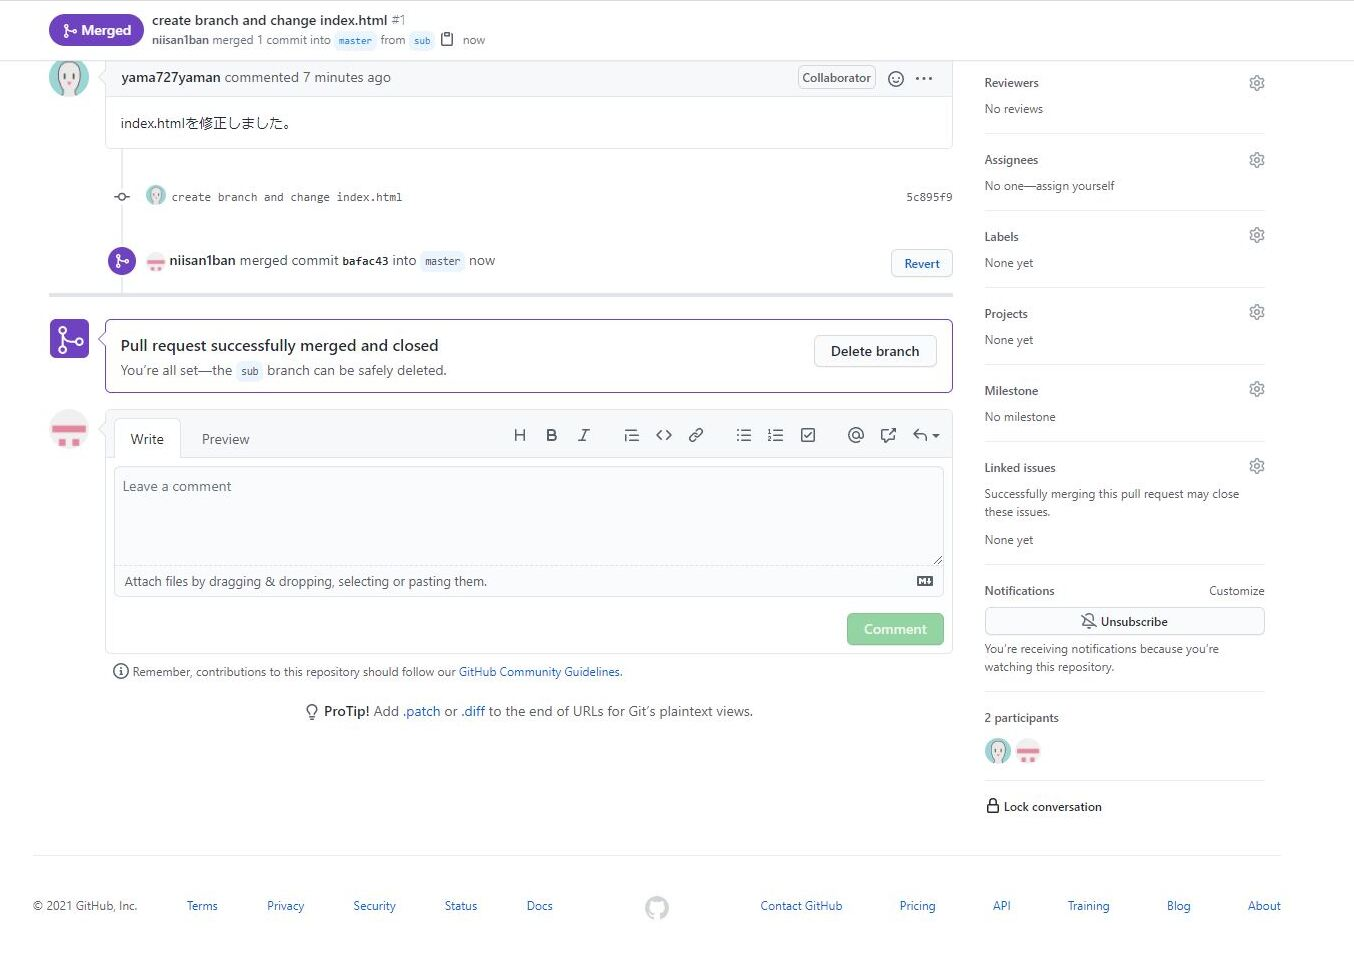
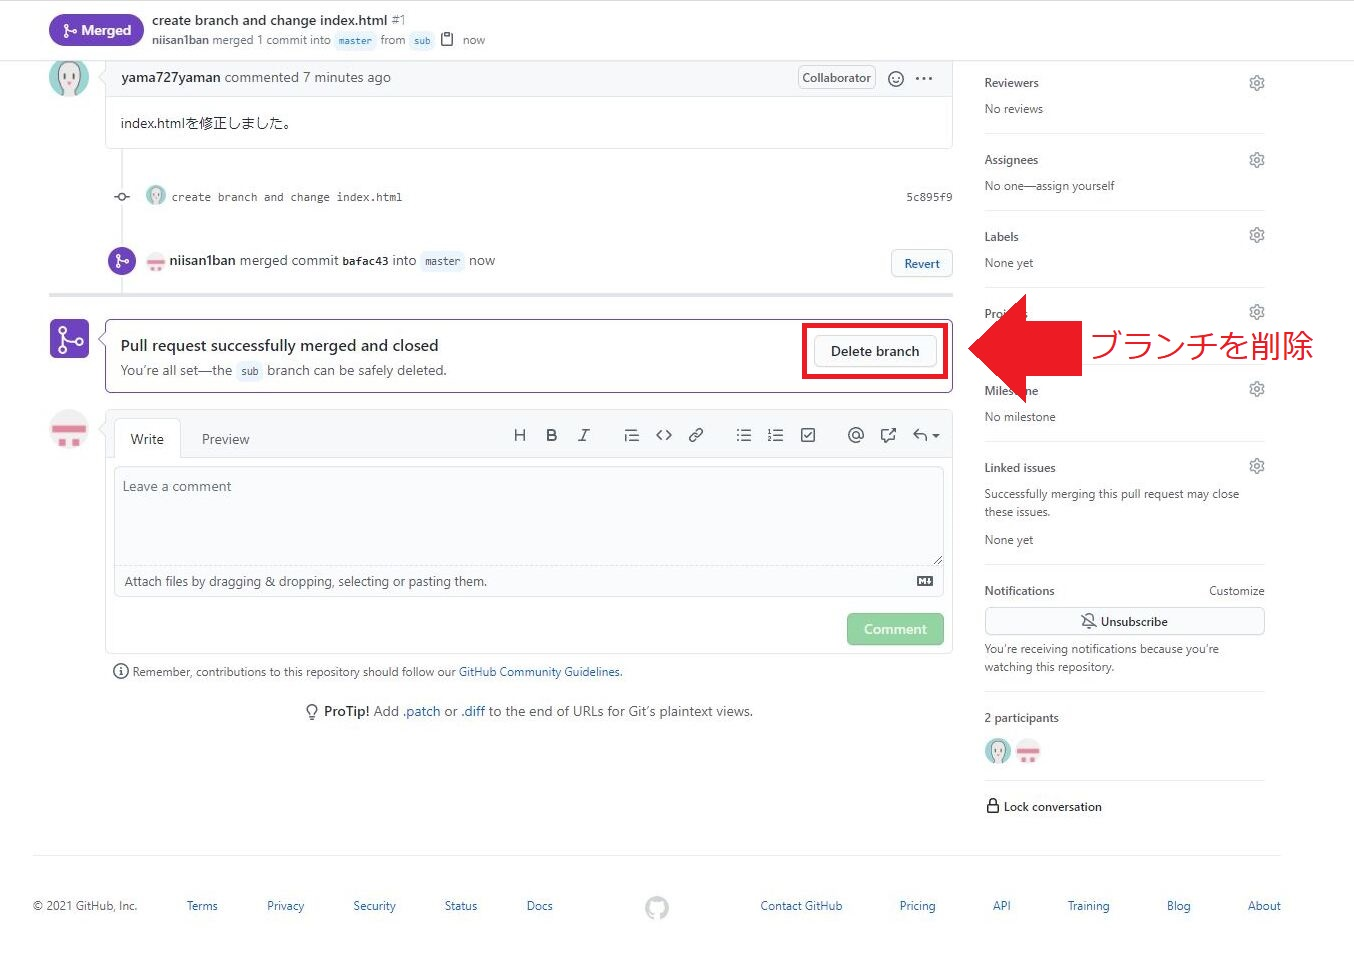
マージ後にブランチを削除するように変更。また、それに合わせて5章でブランチを作成し、ブランチを切り替える操作を追加。その他、軽微な変更あり。

Changed region(s): [[0.5894, 0.3093, 0.9926, 0.4021]]

diff --git a/README.md b/README.md
@@ -22,95 +22,95 @@
 -->
 # GitHubの使い方台本
 
-## 1:AがGitHub上にリモートリポジトリを用意し、"Hello"とだけ書かれたindex.htmlファイルを入れる。  
+## 1. AがGitHub上にリモートリポジトリを用意し、"Hello"とだけ書かれたindex.htmlファイルを入れる。  
 
 ### AがGitHub上にリモートリポジトリを用意する
 
-1. ブラウザで[GitHub](https://github.com/)にアクセスし、右上の+マークを押して「New repository」を選択する。
+  1. ブラウザで[GitHub](https://github.com/)にアクセスし、右上の+マークを押して「New repository」を選択する。
 
-![リモートリポジトリを作成1](img/1-a.jpg)
+  ![リモートリポジトリを作成1](img/1-a.jpg)
 
-2. Repository name（リポジトリ名）を入力する。今回は「Practice」にした。必要ならばDescription（説明文）も入力する。その下のラジオボタンはPublicを選択し、Create repositoryをクリックする。
+  2. Repository name（リポジトリ名）を入力する。今回は「Practice」にした。必要ならばDescription（説明文）も入力する。その下のラジオボタンはPublicを選択し、Create repositoryをクリックする。
 
-|選択肢|内容
-|--|--
-|Public|誰もが閲覧可能な公開リポジトリを作成する
-|Private|許可した人しか見られない非公開リポジトリを作成する
+  |選択肢|内容
+  |--|--
+  |Public|誰もが閲覧可能な公開リポジトリを作成する
+  |Private|許可した人しか見られない非公開リポジトリを作成する
 
-![リモートリポジトリを作成2](img/1-b.jpg)
+  ![リモートリポジトリを作成2](img/1-b.jpg)
 
-3. Git Bashを起動し、任意の場所にPracticeディレクトリを作成し移動する。git initでローカルリポジトリを作成し、git remote addでリモートリポジトリの設定を行う。リモートリポジトリのURLは、Codeタブ内のQuick setupで確認できる。
+  3. Git Bashを起動し、任意の場所にPracticeディレクトリを作成し移動する。git initでローカルリポジトリを作成し、git remote addでリモートリポジトリの設定を行う。リモートリポジトリのURLは、Codeタブ内のQuick setupで確認できる。
 
-  ```
-  $ mkdir Practice
-  $ cd Practice
-  $ git init
-  $ git remote add origin <リモートリポジトリのURL>　
-  ```
+    ```
+    $ mkdir Practice
+    $ cd Practice
+    $ git init
+    $ git remote add origin <リモートリポジトリのURL>　
+    ```
 
-![リモートリポジトリを作成3](img/1-c.JPG)
-![リモートリポジトリを作成4](img/1-d.JPG)
+  ![リモートリポジトリを作成3](img/1-c.JPG)
+  ![リモートリポジトリを作成4](img/1-d.JPG)
 
 ### Aがindex.htmlファイルを作成し、リモートリポジトリに上げる
 
-1. Practiceディレクトリ内でindex.htmlを作成し、以下の内容で保存した。
+  1. Practiceディレクトリ内でindex.htmlを作成し、以下の内容で保存した。
 
-![リモートリポジトリを作成5](img/1-f.JPG)
+  ![リモートリポジトリを作成5](img/1-f.JPG)
 
-2. git addコマンドでindex.htmlをコミット対象に設定する。その後、git commitコマンドでコミットする。このとき、-mオプションでコミットメッセージが設定できる。  
+  2. git addコマンドでindex.htmlをコミット対象に設定する。その後、git commitコマンドでコミットする。このとき、-mオプションでコミットメッセージが設定できる。  
 
-  ```
-  $ git add index.html
-  $ git commit -m "create index.html"
-  ```
+    ```
+    $ git add index.html
+    $ git commit -m "create index.html"
+    ```
 
-3. git pushコマンドでプッシュを行う。  
+  3. git pushコマンドでプッシュを行う。  
 
-  ```
-  $ git push origin master
-  ```
+    ```
+    $ git push origin master
+    ```
 
-![リモートリポジトリを作成6](img/1-h.JPG)
+  ![リモートリポジトリを作成6](img/1-h.JPG)
 
 4. リモートリポジトリにindex.htmlが存在することを確認する。
 
-![リモートリポジトリを作成7](img/1-i.JPG)
-![リモートリポジトリを作成8](img/1-j.JPG)
+  ![リモートリポジトリを作成7](img/1-i.JPG)
+  ![リモートリポジトリを作成8](img/1-j.JPG)
 
-## 2:BがローカルPCにHTMLファイルを取り込み、編集してAにプルリクエストする  
+## 2. BがローカルPCにHTMLファイルを取り込み、編集してAにプルリクエストする  
 
-### A:Bをコラボレーターとして招待する
+### AがBをコラボレーターとして招待する
 
-1. Settingタブに切り替え、左側のメニューからManage accessをクリックする。次にInvite a collaboraterをクリックする。
+  1. Settingタブに切り替え、左側のメニューからManage accessをクリックする。次にInvite a collaboraterをクリックする。
 
-![コラボレーターの招待1](img/1-k.JPG)
+  ![コラボレーターの招待1](img/1-k.JPG)
 
-2. 招待したい人(B)のユーザー名を入力すると、該当するユーザーが表示されるのでクリックする。その後、緑色のボタンをクリックする。
+  2. 招待したい人(B)のユーザー名を入力すると、該当するユーザーが表示されるのでクリックする。その後、緑色のボタンをクリックする。
 
-![コラボレーターの招待2](img/1-l.JPG)
+  ![コラボレーターの招待2](img/1-l.JPG)
 
-3. 招待したユーザー(B)にメールが届くので、正体を受けてもらうと正式にコラボレーターになる。   
+  3. 招待したユーザー(B)にメールが届くので、正体を受けてもらうと正式にコラボレーターになる。   
 
-![コラボレーターの招待3](img2/01.jpg)
-![コラボレーターの招待4](img2/02.jpg)  
+  ![コラボレーターの招待3](img2/01.jpg)
+  ![コラボレーターの招待4](img2/02.jpg)  
 
-コラボレーターとして承認されたら、この画面に遷移する。
-![コラボレーターの招待4](img2/03.png)
+  コラボレーターとして承認されたら、この画面に遷移する。
+  ![コラボレーターの招待4](img2/03.png)
 
 ### BがリモートリポジトリからローカルPCをに取り込み、ファイルを編集する
 
- 1. BがGit Bushを起動し、作業したい場所にカレントディレクトリを移動させる。Aと同じくgit initでローカルリポジトリを作成し、git cloneでリモートリポジトリの中身を複製させる。  
- lsとcatでフォルダとファイルの中身を確かめると、リモートリポジトリ（Practice）の中身がそのままローカルPCに落とされていることが分かる。  
+  1. BがGit Bushを起動し、作業したい場所にカレントディレクトリを移動させる。Aと同じくgit initでローカルリポジトリを作成し、git cloneでリモートリポジトリの中身を複製させる。  
+  lsとcatでフォルダとファイルの中身を確かめると、リモートリポジトリ（Practice）の中身がそのままローカルPCに落とされていることが分かる。  
 
- ```
- $ git clone <リモートリポジトリのURL>  
- ```  
+  ```
+  $ git clone <リモートリポジトリのURL>  
+  ```  
 
- ![中身確認](img2/17.jpg)
+  ![中身確認](img2/17.jpg)
 
- 2. 落としてきたindex.htmlに編集を加える。  
+  2. 落としてきたindex.htmlに編集を加える。  
 
- ![index.htmlを編集](img2/06.png)   
+  ![index.htmlを編集](img2/06.png)   
 
 
 ### Bがブランチを作成し、そこにファイルをプッシュしてAにプルリクエストする
@@ -142,79 +142,89 @@
 
 
 <!--ここから先は見出しのみ作成しました。適宜編集お願いします。-->
-## 3:AがBのプルリクエストをmasterブランチにマージする  
+## 3. AがBのプルリクエストをmasterブランチにマージする  
 
-1. Pull requestsタブを選択し、開きたいプルリクエストをクリックすると、選んだプルリクエストが表示される。
+  1. Pull requestsタブを選択し、開きたいプルリクエストをクリックすると、選んだプルリクエストが表示される。
 
-![プルリクエスト1](img/3-b.JPG)
-![プルリクエスト2](img/3-c.JPG)
+  ![プルリクエスト1](img/3-b.JPG)
+  ![プルリクエスト2](img/3-c.JPG)
 
-2. Commitsタブや、Files changedタブで変更点を確認する。
+  2. Commitsタブや、Files changedタブで変更点を確認する。
 
-![プルリクエスト4](img/3-e.JPG)
-![プルリクエスト3](img/3-d.JPG)
+  ![プルリクエスト4](img/3-e.JPG)
+  ![プルリクエスト3](img/3-d.JPG)
 
-3. 問題がない場合は、Merge pull requestをクリックし、コミットメッセージを入力してConfirm mergeをクリックする。
+  3. 問題がない場合は、Merge pull requestをクリックし、コミットメッセージを入力してConfirm mergeをクリックする。
 
-![プルリクエスト2](img/3-h.jpg)
-![プルリクエスト5](img/3-f.JPG)
+  ![プルリクエスト2](img/3-h.jpg)
+  ![プルリクエスト5](img/3-f.JPG)
 
-4. これで、マージコミットが追加された。
+  4. これで、マージコミットが追加された。subブランチは不要なのでDelete branchをクリックして削除する。
 
-![プルリクエスト6](img/3-g.JPG)
+  ![ブランチの削除](img/3-g.jpg)
 
-## 4:AがBの編集した内容をローカルPCに取り込み、index.htmlを編集してmasterブランチにマージさせる　　
+## 4. AがBの編集した内容をローカルPCに取り込み、index.htmlを編集してmasterブランチにマージさせる　　
 
-1. git pullコマンドで、ローカルリポジトリにリモートリポジトリのデータを取り込む。
+  1. git pullコマンドで、ローカルリポジトリにリモートリポジトリのデータを取り込む。
+
+    ```
+    $ git pull origin master
+    ```
+
+  2. index.htmlに変更を加える。ここでは、13行目にdivタグを追加した。
+
+  ![index.htmlに追記する](img/4-2.JPG)
+
+  3. git addコマンドでindex.htmlをコミット対象に設定する。次に、git commitコマンドでコミットする。そして、git pushコマンドでプッシュする。
+
+    ```
+    $ git add index.html
+    $ git commit -m "update index.html"
+    $ git push origin master
+    ```
+
+## 5. BがAの編集した内容をローカルPCに取り込み、stylesheet.cssを追加、Aにプルリクエスト　　
+
+  1. subブランチからmasterブランチに切り替え、subブランチを削除する。
+
+  ```
+  $ git checkout master
+  $ git branch -d sub
+  ```
+
+  2. git pullコマンドで、ローカルリポジトリにリモートリポジトリのデータを取り込む。　　
 
   ```
   $ git pull origin master
   ```
 
-![git pull](img/4-1.JPG)
-
-2. index.htmlに変更を加える。ここでは、13行目にdivタグを追加した。
-
-![index.htmlに追記する](img/4-2.JPG)
-
-3. git addコマンドでindex.htmlをコミット対象に設定する。次に、git commitコマンドでコミットする。そして、git pushコマンドでプッシュする。
+  3. 新たに、sub2ブランチを作成し、切り替える。
 
   ```
-  $ git add index.html
-  $ git commit -m "update index.html"
-  $ git push origin master
+  $ git branch sub2
+  $ git checkout sub2
   ```
 
-![pushする](img/4-3.JPG)
+  2. ローカルリポジトリ内にtouchでstylesheet.cssを作成する。その後、CSSファイル内に記述を追加する。
 
-## 5:BがAの編集した内容をローカルPCに取り込み、stylesheet.cssを追加、Aにプルリクエスト　　
+  ```
+  $ touch stylesheet.css
+  ```
 
- 1. git pullコマンドで、ローカルリポジトリにリモートリポジトリのデータを取り込む。　　
+  ![CSSファイル編集](img2/14.png)
 
- ```
- $ git pull origin master
- ```
+  3. cssファイルをコミットし、リモートリポジトリのsub2ブランチにプッシュする。
 
- 2. ローカルリポジトリ内にtouchでstylesheet.cssを作成する。その後、CSSファイル内に記述を追加する。
+  ```
+  $ git add stylesheet.css
+  $ git commit -m "add css file."
+  $ git push origin sub2　#ブランチは確認しておく
+  ```
+  4. プッシュできたら2章のときと同様に、プルリクエストを要求する。
 
- ```
- $ touch stylesheet.css
- ```
+  ## 6. AがBのプルリクエストをmasterブランチにマージする
 
-![CSSファイル編集](img2/14.png)
-
-3. cssファイルをコミットし、リモートリポジトリのsubブランチにプッシュする。
-
-```
-$ git add stylesheet.css
-$ git commit -m "add css file."
-$ git push origin sub　#ブランチは確認しておく
-```
-4. プッシュできたら2章のときと同様に、プルリクエストを要求する。
-
-## 6:AがBのプルリクエストをmasterブランチにマージする
-
-3と同様の方法で、masterブランチにマージする。
+  3と同様の方法で、sub2ブランチをmasterブランチにマージする。マージが完了したら、リモートのsub2ブランチはDelete branchボタンで削除する。Bのローカルリポジトリで作成したsub2ブランチも削除しておく。
 
 
 
